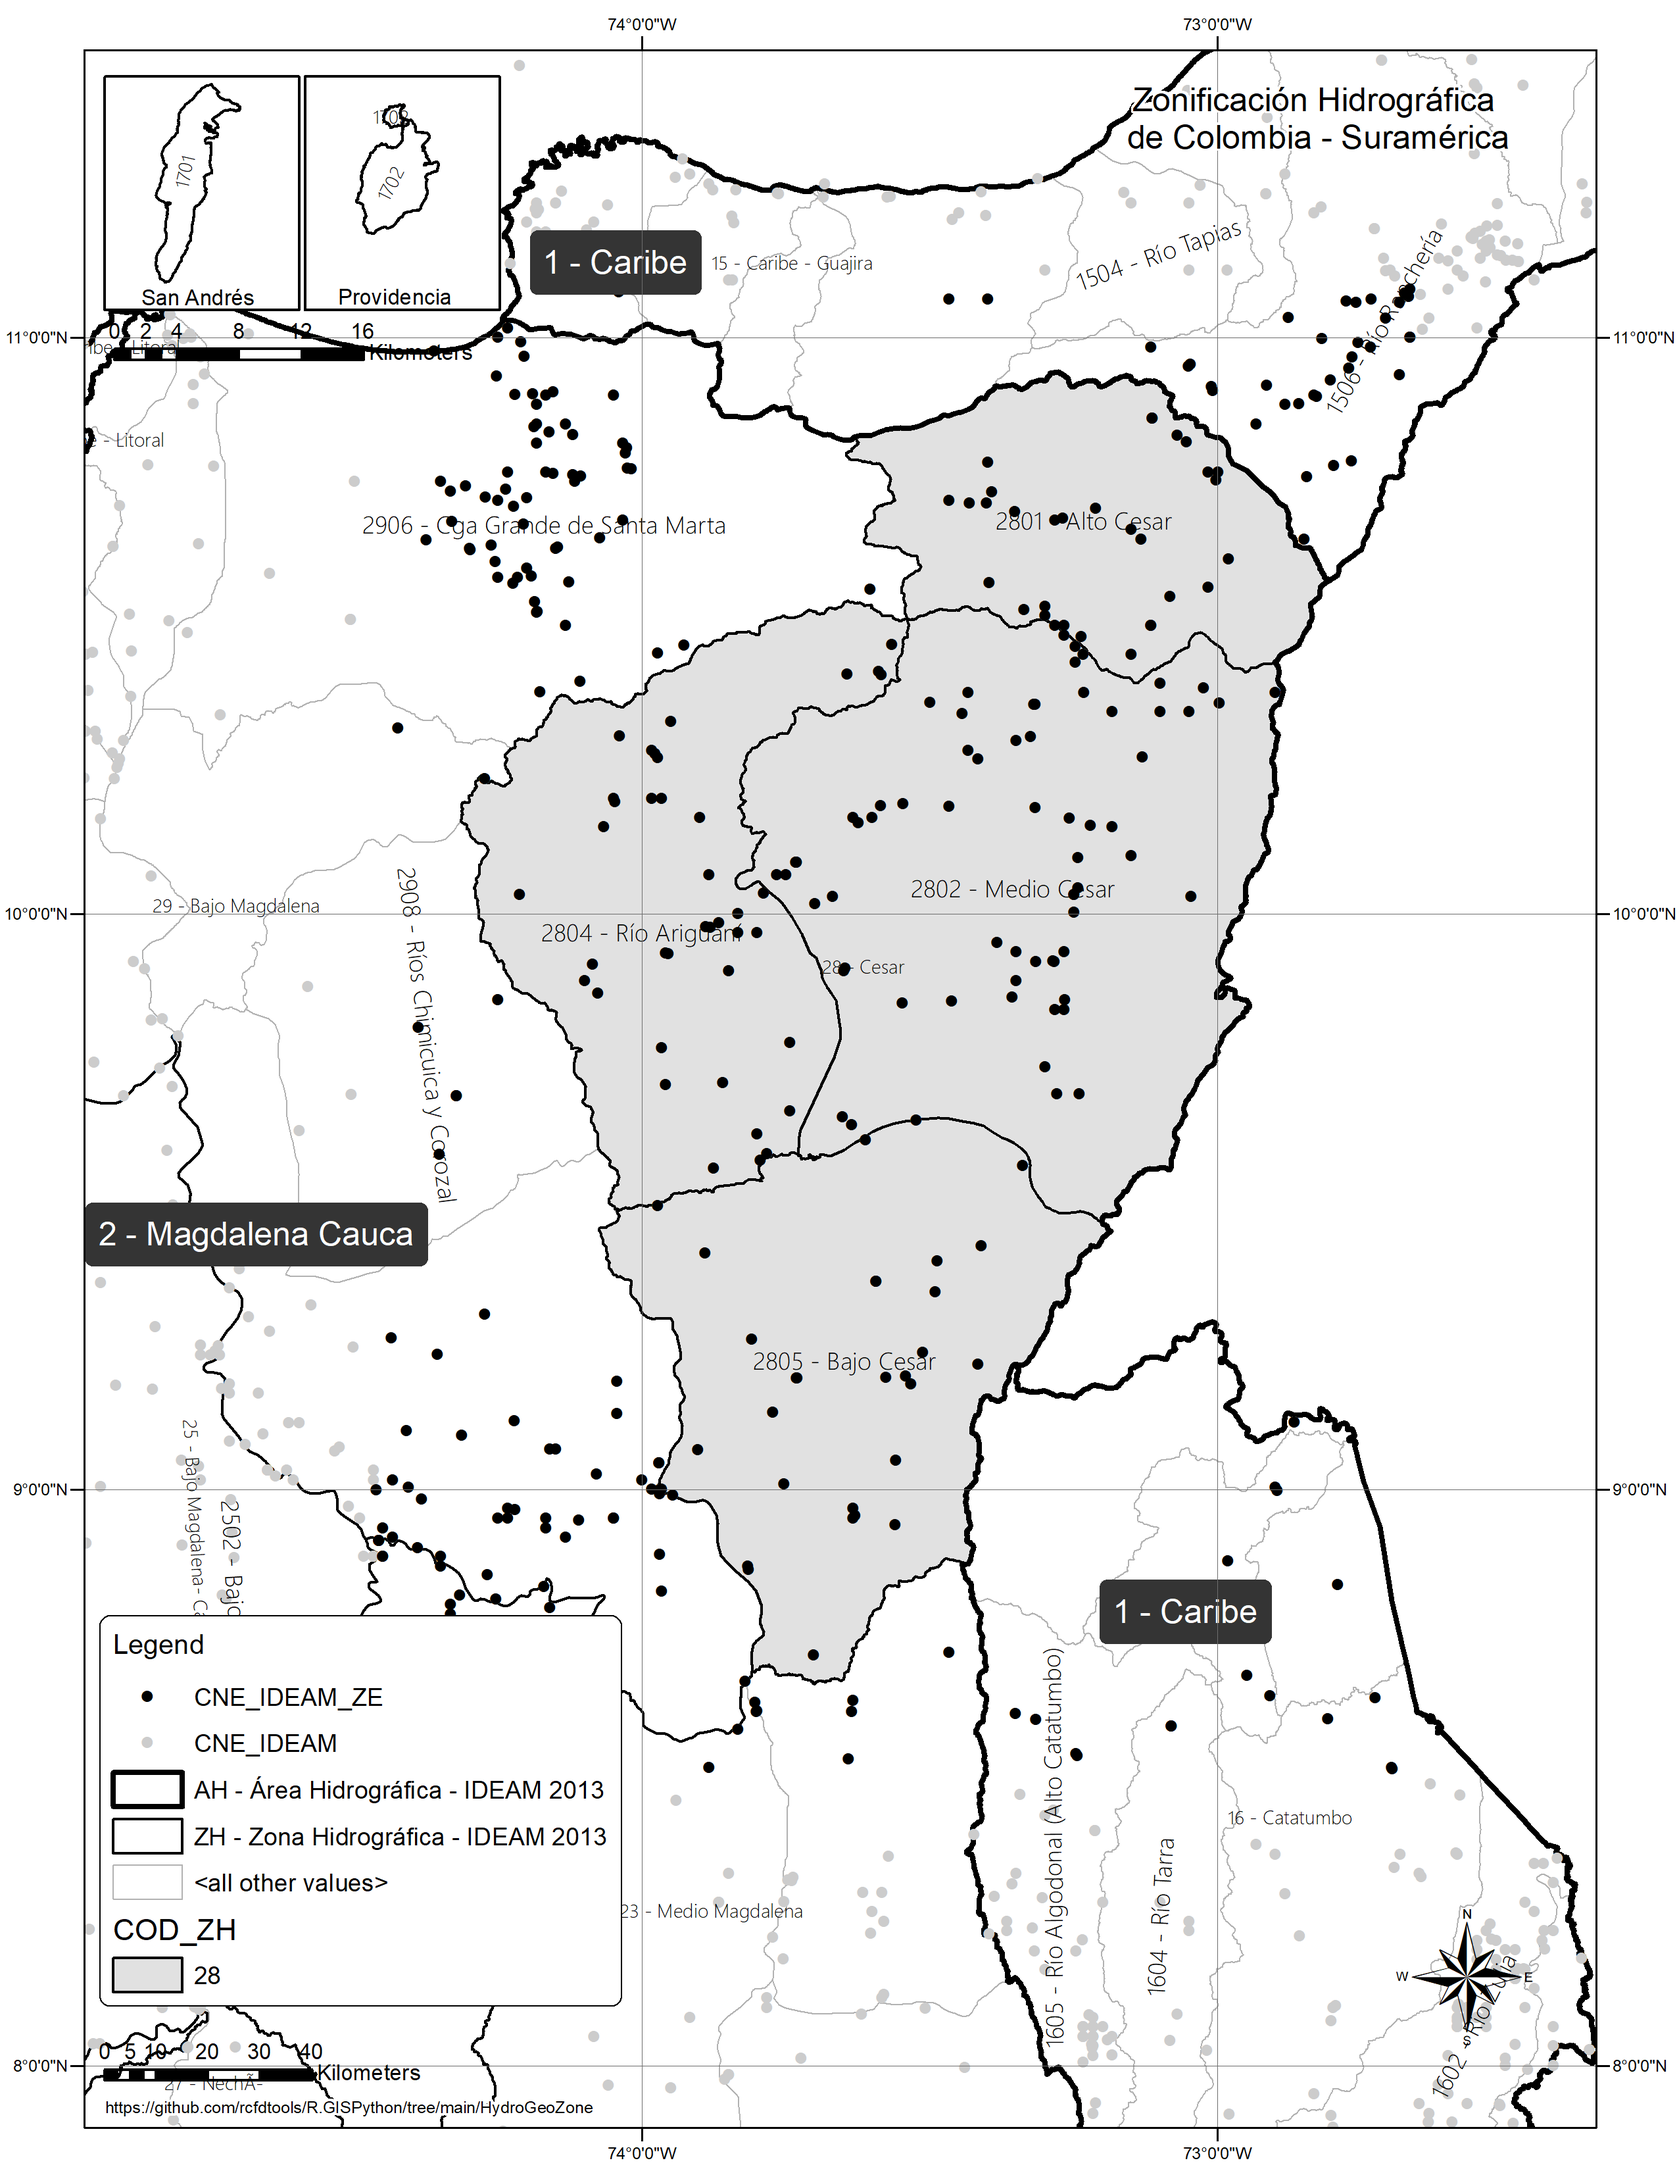
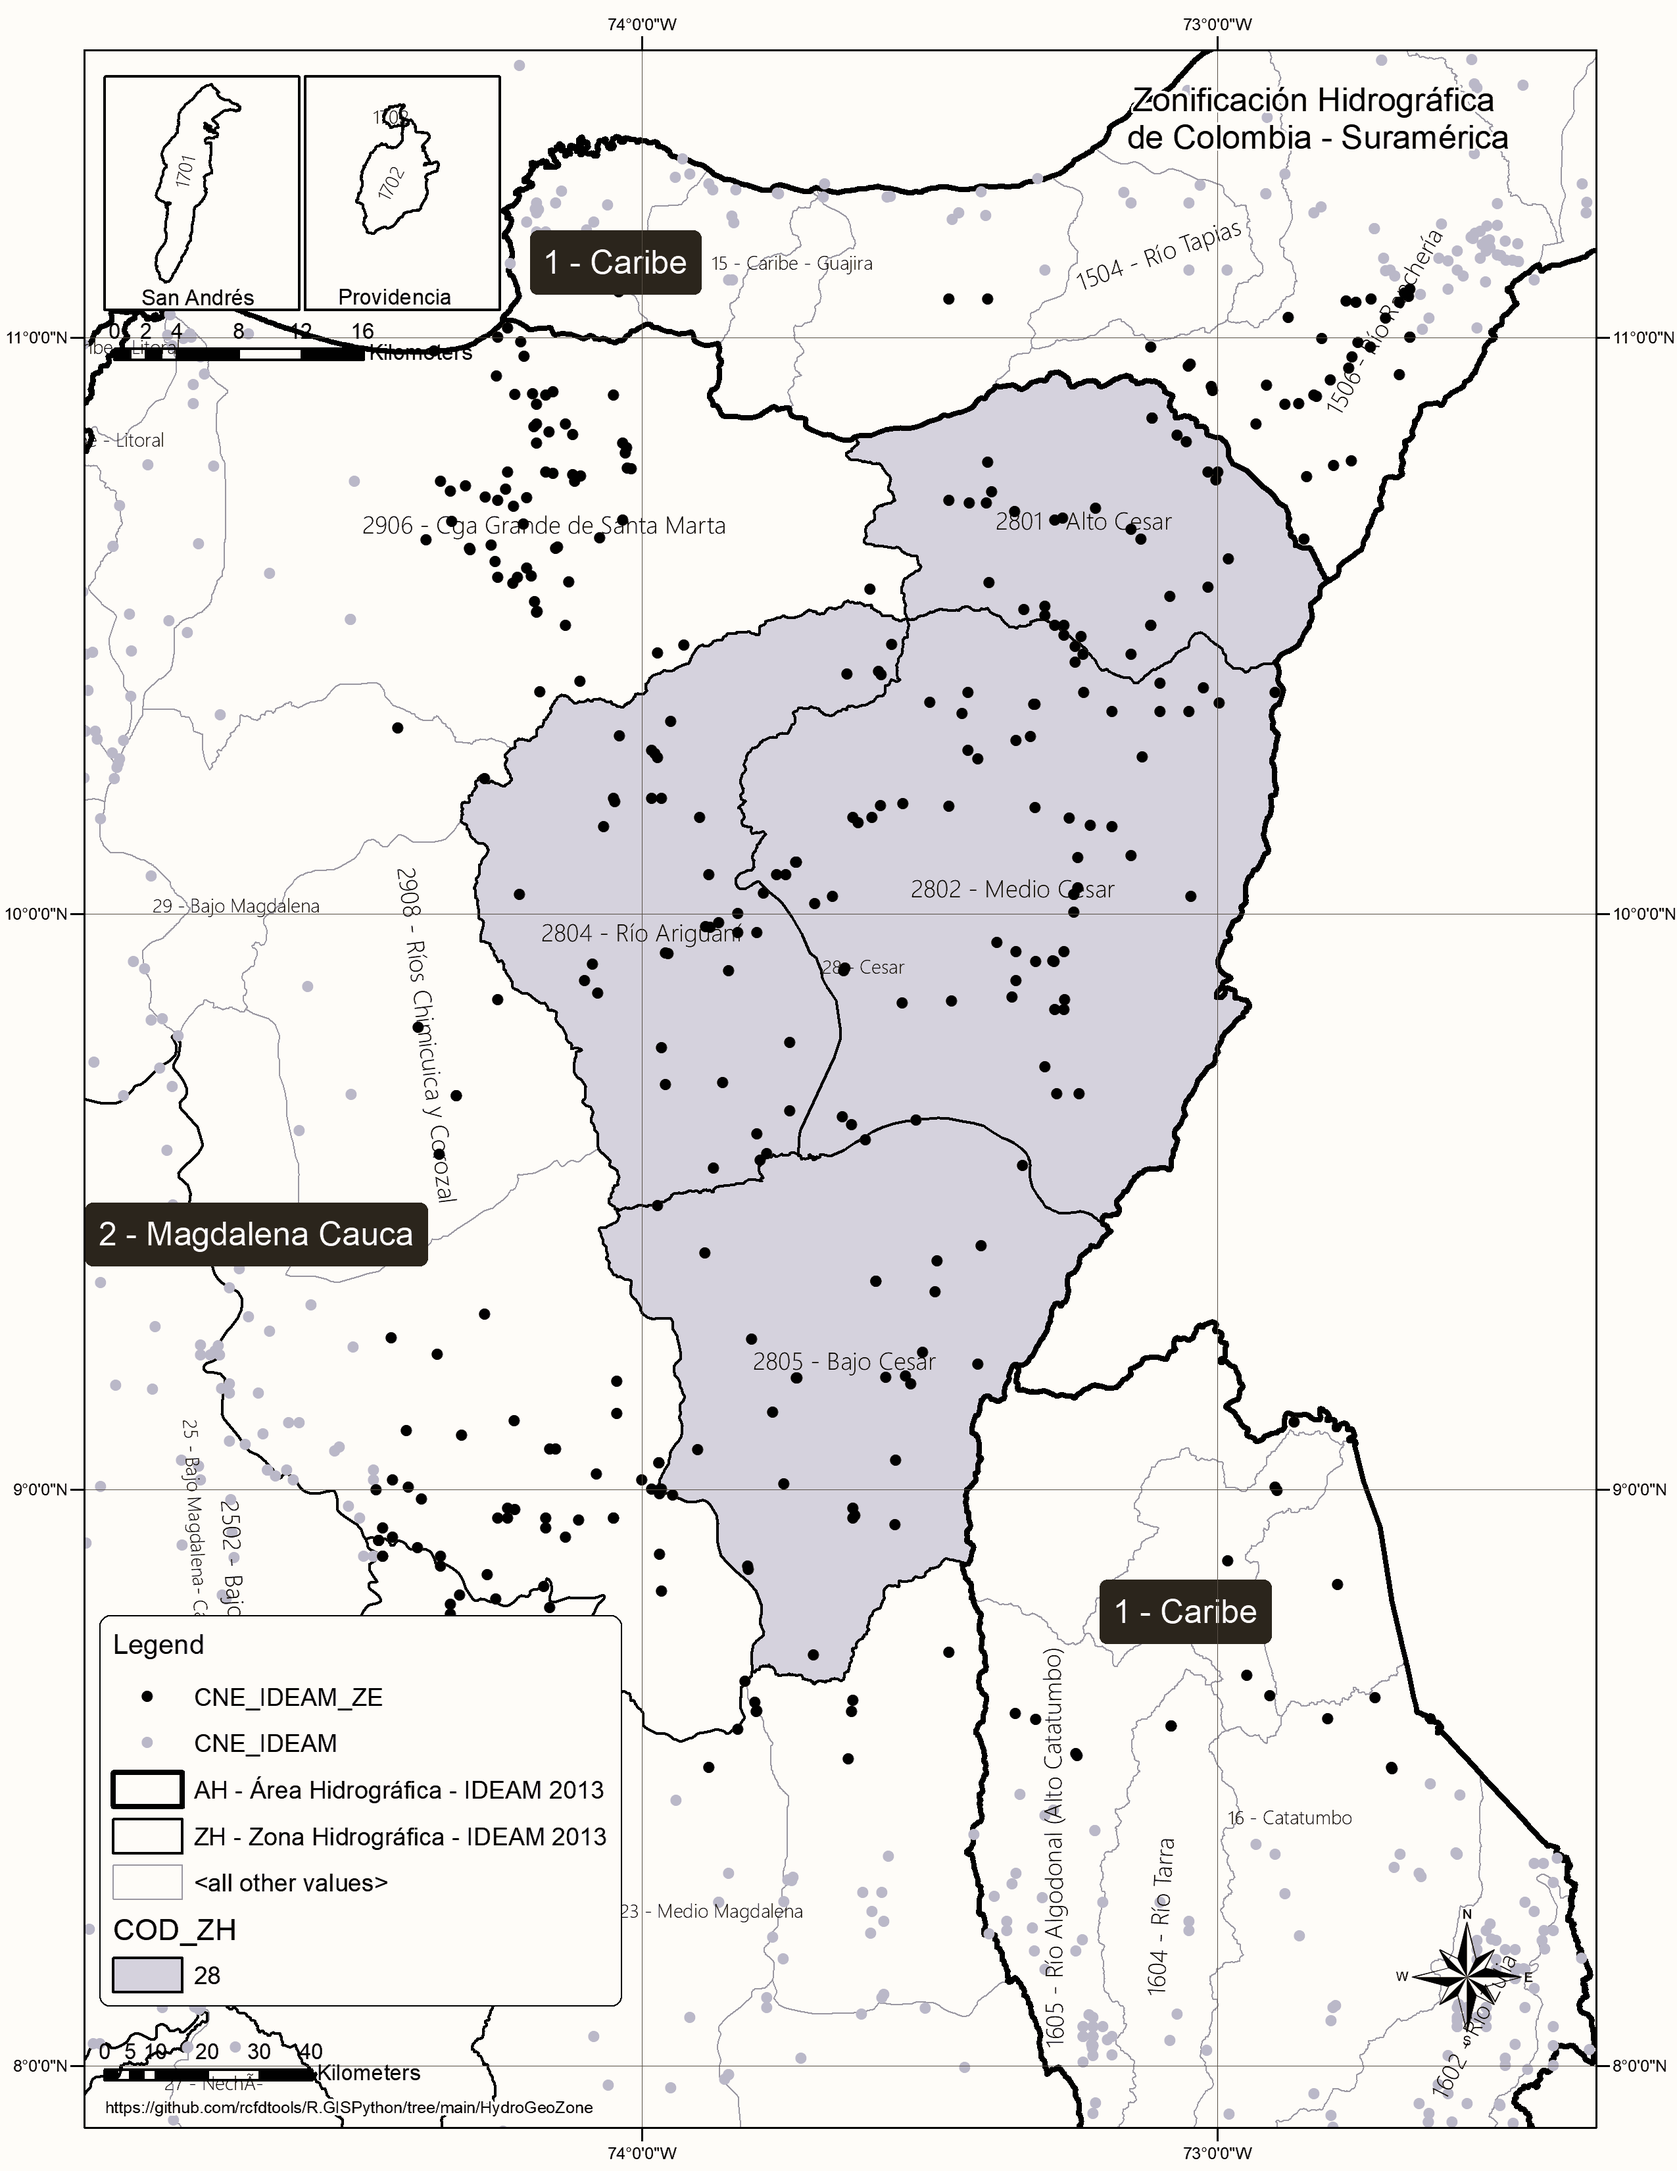
General update.

Changed region(s): [[0.8675, 0.9052, 0.8984, 0.9364], [0.1859, 0.8427, 0.2169, 0.8739]]

diff --git a/Section03/CNEStation/Readme.md b/Section03/CNEStation/Readme.md
@@ -5,7 +5,7 @@ Keywords: `IDEAM` `Weather Station` `Display XY Data` `Buffer` `Merge` `Bar grap
 
 Luego de la definición del caso de estudio realizada en la Sección 1, es necesario identificar la red de estaciones terrestres que serán utilizadas para el estudio de las diferentes variables hidroclimatológicas en la zona estudio.                       
 
-> En la ilustración, _CNE_IDEAM_ corresponde a las estaciones del Catálogo Nacional de Estaciones del IDEAM y _CNE_IDEAM_ZE_ corresponde al grupo de estaciones prototipo en la zona de estudio.
+> En la ilustración, _CNE_IDEAM_ corresponde a las estaciones del Catálogo Nacional de Estaciones del IDEAM y _CNE_IDEAM_ZE_ corresponde al grupo de estaciones prototipo en la zona de estudio. COD_ZH corresponde al código de la zona hidrográfica en estudio.
 
 
 ### Objetivos
